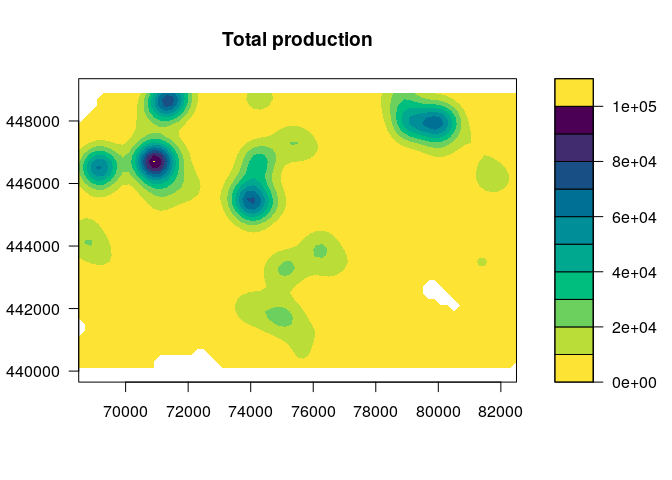
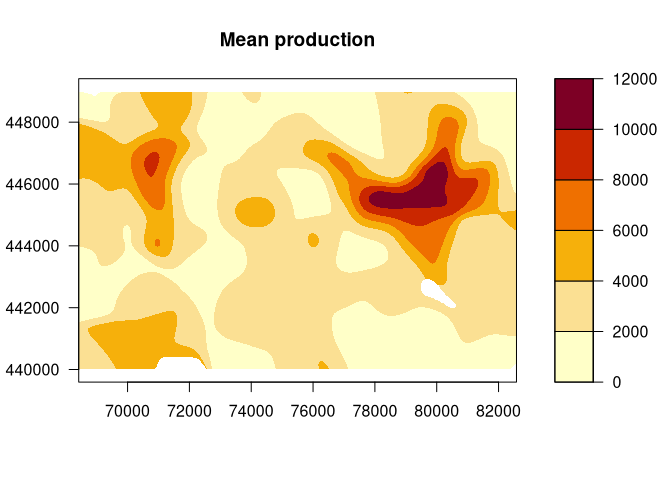
updated README.md

diff --git a/README.md b/README.md
@@ -10,9 +10,8 @@ status](https://ci.appveyor.com/api/projects/status/github/edwindj/sdcSpatial?br
 [![Mentioned in Awesome Official
 Statistics](https://awesome.re/mentioned-badge.svg)](http://www.awesomeofficialstatistics.org)
 
-# sdcSpatial
-
-**`protect_adaptive` is still in testing phase and will be released to CRAN asap**
+sdcSpatial
+==========
 
 *Publishing a raster density map can reveal sensitive values*.
 `sdcSpatial` is an opensource R package for creating spatial density
@@ -21,115 +20,109 @@ observations.
 
 `sdcSpatial` offers a `sdc_raster` class that allows to:
 
-  - find out which locations are considered sensitive / unsafe for
+-   find out which locations are considered sensitive / unsafe for
     publishing: `plot_sensitive`, `is_sensitive`, `sensitivity_score`.
-  - apply protection methods that reduce sensitiviy and enhance spatial
+-   apply protection methods that reduce sensitiviy and enhance spatial
     patterns: `protect_smooth`, `protect_quadtree`.
-  - remove sensitive locations: `remove_sensitive`.
-  - extract relative as well as absolute density `raster`s that can be
+-   remove sensitive locations: `remove_sensitive`.
+-   extract relative as well as absolute density `raster`s that can be
     used with visualisation packages, such as `tmap` and `leaflet`:
     `x$value$mean`, `x$value$sum`, `mean`, `sum`.
 
-## Installation
+Installation
+------------
 
-``` r
-install.packages("sdcSpatial")
-```
+    install.packages("sdcSpatial")
 
 To install the current development version of `sdcSpatial` with
 `devtools`
 
-``` r
-remotes::install_github("edwindj/sdcSpatial")
-```
+    remotes::install_github("edwindj/sdcSpatial")
 
-## Example
+Example
+-------
 
-``` r
-library(sdcSpatial)
-library(raster)
-#> Loading required package: sp
+    library(sdcSpatial)
+    library(raster)
+    #> Loading required package: sp
 
-data(enterprises)
+    data(enterprises)
 
-# create a sdc_raster from point data with raster with
-# a resolution of 200m
-production <- sdc_raster(enterprises, variable = "production"
-                        , r = 200, min_count = 3)
+    # create a sdc_raster from point data with raster with
+    # a resolution of 200m
+    production <- sdc_raster(enterprises, variable = "production"
+                            , r = 200, min_count = 3)
 
-print(production)
-#> numeric sdc_raster object: 
-#>    resolution: 200 200 ,  max_risk: 0.95 , min_count: 3 
-#>    mean sensitivity score [0,1]:  0.6328234
+    print(production)
+    #> numeric sdc_raster object: 
+    #>    resolution: 200 200 ,  max_risk: 0.95 , min_count: 3 
+    #>    mean sensitivity score [0,1]:  0.6328234
 
-# plot the raster
-zlim <- c(0, 3e4)
-# show which raster cells are sensitive
-plot(production, zlim=zlim)
-```
+    # plot the raster
+    zlim <- c(0, 3e4)
+    # show which raster cells are sensitive
+    plot(production, zlim=zlim)
 
 <img src="man/figures/README-example-1.png" width="100%" />
 
-``` r
 
-# but we can also retrieve directly the raster
-sensitive <- is_sensitive(production, min_count = 3)
-plot(sensitive, col = c('white', 'red'))
-```
+    # but we can also retrieve directly the raster
+    sensitive <- is_sensitive(production, min_count = 3)
+    plot(sensitive, col = c('white', 'red'))
 
 <img src="man/figures/README-example-2.png" width="100%" />
 
-``` r
 
-# what is the sensitivy fraction?
-sensitivity_score(production)
-#> [1] 0.6328234
-# or equally
-cellStats(sensitive, mean)
-#> [1] 0.6328234
+    # what is the sensitivy fraction?
+    sensitivity_score(production)
+    #> [1] 0.6328234
+    # or equally
+    cellStats(sensitive, mean)
+    #> [1] 0.6328234
 
-# let's smooth to reduce the sensitivity
-smoothed <- protect_smooth(production, bw = 400)
-plot(smoothed)
-```
+    # let's smooth to reduce the sensitivity
+    smoothed <- protect_smooth(production, bw = 400)
+    plot(smoothed)
 
 <img src="man/figures/README-example-3.png" width="100%" />
 
-``` r
 
-# what is the sensitivy fraction?
-sensitivity_score(smoothed)
-#> [1] 0.01408451
-
-# let's remove the sensitive data.
-smoothed_safe <- remove_sensitive(smoothed, min_count = 3)
-plot(smoothed_safe, zlim=zlim)
-```
+    # let's smooth to reduce the sensitivity, with higher resolution
+    smoothed <- protect_smooth(production, bw = 400, fact=4, keep_resolution=FALSE)
+    plot(smoothed)
 
 <img src="man/figures/README-example-4.png" width="100%" />
 
-``` r
 
-# let's communicate!
-production_mean <- mean(smoothed_safe)
-production_total <- sum(smoothed_safe)
+    # what is the sensitivy fraction?
+    sensitivity_score(smoothed)
+    #> [1] 0.007962441
 
-# and create a contour plot
-raster::filledContour(production_mean, nlevels = 6, main = "Mean production")
-```
+    # let's remove the sensitive data.
+    smoothed_safe <- remove_sensitive(smoothed, min_count = 3)
+    plot(smoothed_safe)
 
 <img src="man/figures/README-example-5.png" width="100%" />
 
-``` r
 
+    # let's communicate!
+    production_mean <- mean(smoothed_safe)
+    production_total <- sum(smoothed_safe)
 
-# generated with R 3.6 >=
-#col <- hcl.colors(10, rev=TRUE)
-col <- c("#FDE333", "#BBDD38", "#6CD05E", "#00BE7D",
-         "#00A890", "#008E98",  "#007094", "#185086", "#422C70", "#4B0055")
-raster::filledContour(production_total, nlevels = 10
-             , col = col
-             , main="Total production")
-```
+    # and create a contour plot
+    raster::filledContour(production_mean, nlevels = 6, main = "Mean production")
 
 <img src="man/figures/README-example-6.png" width="100%" />
+
+
+
+    # generated with R 3.6 >=
+    #col <- hcl.colors(11, rev=TRUE)
+    col <- c("#FDE333", "#C2DE34", "#7ED357", "#00C475", "#00B28A", "#009B95"
+            ,  "#008298", "#006791", "#274983", "#44286E", "#4B0055"
+            )
+    raster::filledContour(production_total, nlevels = 11
+                 , col = col
+                 , main="Total production")
+
+<img src="man/figures/README-example-7.png" width="100%" />
